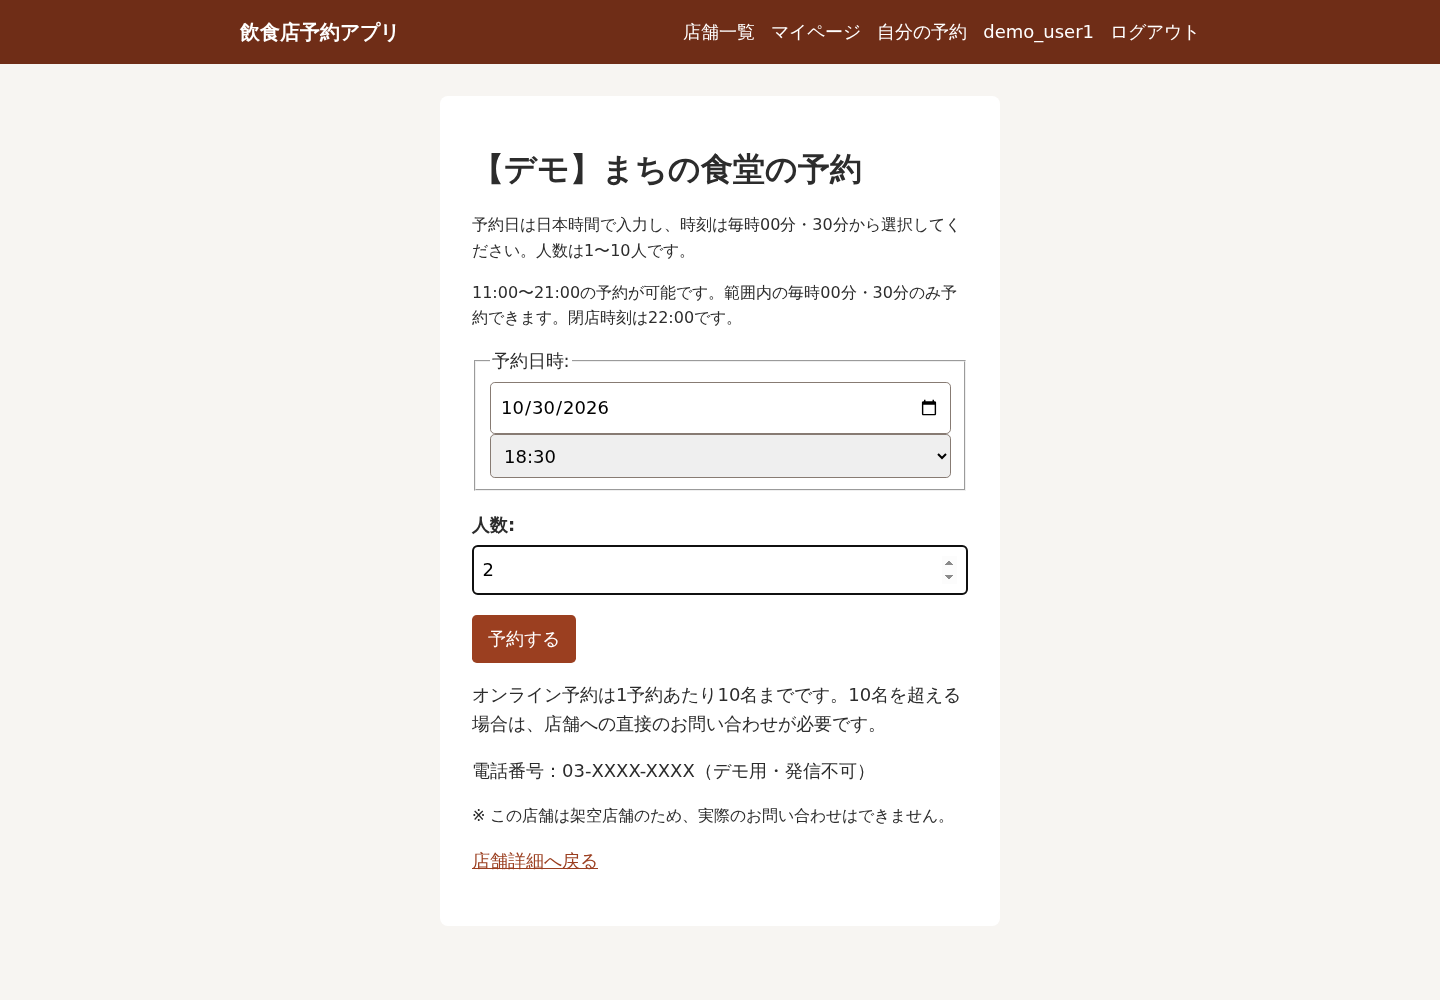
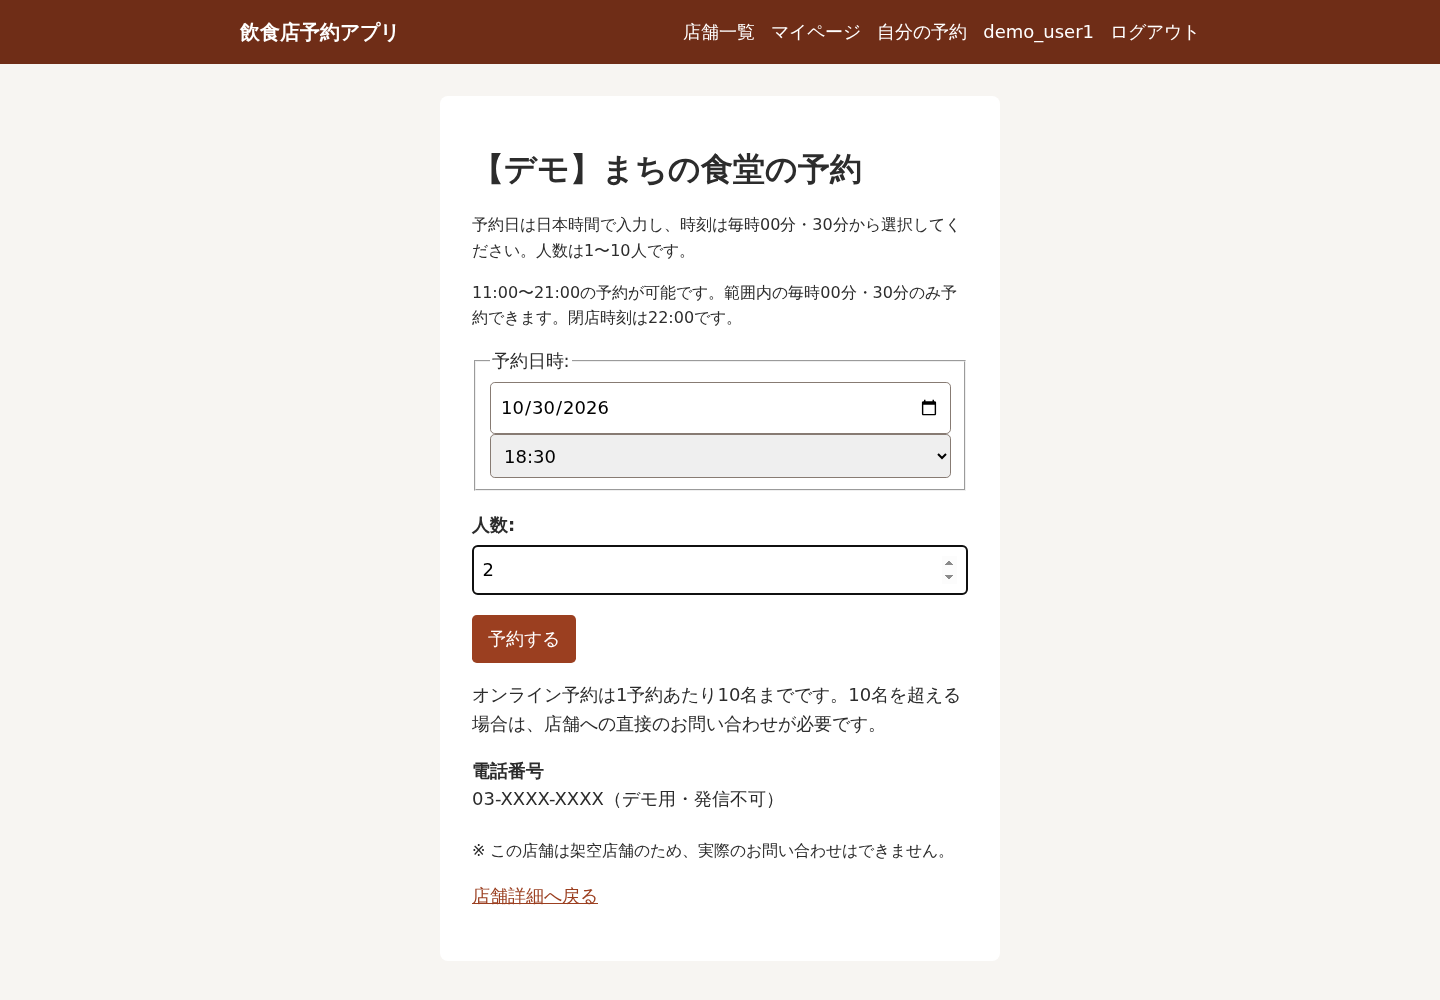
Refine restaurant phone number layout

Changed region(s): [[0.3125, 0.744, 0.6562, 0.93]]

diff --git a/templates/reservations/_restaurant_phone.html b/templates/reservations/_restaurant_phone.html
@@ -1,13 +1,14 @@
-{% if compact %}<dt>電話番号</dt><dd>{% else %}<p>{% endif %}
+<dt>電話番号</dt>
+<dd>
 {% with phone=restaurant.phone_number_tel %}
   {% if phone %}
-    {% if not compact %}店舗へ電話でお問い合わせください。電話：{% endif %}<a href="tel:{{ phone }}">{{ restaurant.phone_number }}</a>
+    <a href="tel:{{ phone }}">{{ restaurant.phone_number }}</a>
   {% elif restaurant.phone_number %}
     このページの店舗の電話番号は不正なため、電話リンクを表示できません。
   {% elif is_demo_restaurant %}
-    {% if not compact %}電話番号：{% endif %}03-XXXX-XXXX（デモ用・発信不可）
+    03-XXXX-XXXX（デモ用・発信不可）
   {% else %}
     このページには店舗の電話番号が登録されていません。
   {% endif %}
 {% endwith %}
-{% if compact %}</dd>{% else %}</p>{% endif %}
+</dd>

diff --git a/templates/reservations/_reservation_contact.html b/templates/reservations/_reservation_contact.html
@@ -2,7 +2,11 @@
   {% if restaurant.max_party_size >= 1 %}
     <p>オンライン予約は1予約あたり{{ restaurant.max_party_size }}名までです。{{ restaurant.max_party_size }}名を超える場合は、店舗への直接のお問い合わせが必要です。</p>
   {% endif %}
-  {% include "reservations/_restaurant_phone.html" %}
+  {% if not hide_phone %}
+    <dl>
+      {% include "reservations/_restaurant_phone.html" %}
+    </dl>
+  {% endif %}
   {% if is_demo_restaurant and not restaurant.phone_number %}
     <p class="supplementary">※ この店舗は架空店舗のため、実際のお問い合わせはできません。</p>
   {% else %}

diff --git a/templates/reservations/restaurant_list.html b/templates/reservations/restaurant_list.html
@@ -22,7 +22,7 @@
           <dd>1予約あたり{{ restaurant.max_party_size }}人まで</dd>
           <dt>営業時間の補足案内</dt>
           <dd>{{ restaurant.business_hours|linebreaksbr }}</dd>
-          {% include "reservations/_restaurant_phone.html" with is_demo_restaurant=restaurant.is_demo compact=True %}
+          {% include "reservations/_restaurant_phone.html" with is_demo_restaurant=restaurant.is_demo %}
         </dl>
         {% if not restaurant.can_accept_reservations %}
           <p>店舗の予約設定が未完了または不正のため、現在予約を受け付けていません。</p>

diff --git a/templates/reservations/restaurant_detail.html b/templates/reservations/restaurant_detail.html
@@ -25,11 +25,12 @@
       <dd>1予約あたり{{ restaurant.max_party_size }}人まで</dd>
       <dt>営業時間の補足案内</dt>
       <dd>{{ restaurant.business_hours|linebreaksbr }}</dd>
+      {% include "reservations/_restaurant_phone.html" %}
     </dl>
   </section>
 </article>
 
-{% include "reservations/_reservation_contact.html" %}
+{% include "reservations/_reservation_contact.html" with hide_phone=True %}
 
 {% if restaurant.can_accept_reservations %}
 <p>

diff --git a/reservations/tests.py b/reservations/tests.py
@@ -810,6 +810,31 @@ class ReservationTests(TestCase):
                                 self.assertContains(response, "電話番号が登録されていません")
                 self.assertEqual(Restaurant.objects.filter(pk=self.restaurant.pk).values().get(), before)
 
+    def test_phone_label_and_detail_placement_without_duplicate_contact(self):
+        self.restaurant.name = "【デモ】まちの食堂"
+        self.restaurant.description = "[seed_demo:v1]\n説明"
+        for number, value in (
+            ("", "03-XXXX-XXXX（デモ用・発信不可）"),
+            ("03-1234-5678", '<a href="tel:0312345678">03-1234-5678</a>'),
+            ("invalid", "このページの店舗の電話番号は不正なため、電話リンクを表示できません。"),
+        ):
+            self.restaurant.phone_number = number
+            self.restaurant.save()
+            detail = self.client.get(reverse("reservations:restaurant_detail", args=[self.restaurant.pk]))
+            content = detail.content.decode()
+            inside, outside = content.split("</article>", 1)
+            self.assertIn("<dt>電話番号</dt>", inside)
+            self.assertNotIn("<dt>電話番号</dt>", outside)
+            self.assertNotIn(value, outside)
+            self.assertLess(inside.index("営業時間の補足案内"), inside.index("<dt>電話番号</dt>"))
+            self.assertIn("名を超える場合は", outside)
+            for response in (detail, self.client.get(self.create_url),
+                             self.client.post(self.create_url, self.data(party_size="11"))):
+                self.assertContains(response, f"<dt>電話番号</dt><dd>{value}</dd>", count=1, html=True)
+                if not number:
+                    self.assertContains(response, "※ この店舗は架空店舗のため、実際のお問い合わせはできません。", count=1)
+            self.assertFalse(Reservation.objects.exists())
+
     def test_demo_contact_requires_both_name_and_exact_leading_marker(self):
         for name, description in (
             ("【デモ】まちの食堂", "普通の説明"),

diff --git a/README.md b/README.md
@@ -40,7 +40,7 @@ Djangoの認証・ORM・フォーム・テンプレート・管理画面と、DR
 
 ### 店舗詳細
 
-最大予約人数10人と、上限超過時の直接問い合わせ案内です。デモ番号に電話リンクはなく、問い合わせ不可の注意書きを表示します。
+白枠内に電話番号、枠外に上限10人を超える場合の直接問い合わせ案内を表示します。デモ番号に電話リンクはなく、問い合わせ不可の注意書きを表示します。
 
 ![店舗詳細](docs/images/restaurant_detail.png)
 
@@ -267,7 +267,7 @@ APIのみ実行する場合は`docker compose exec web python manage.py test res
 
 ### 動作確認結果
 
-2026-10-28、Docker/MySQLの独立テストDBで全124件の自動テストが成功しました。
+2026-10-28、Docker/MySQLの独立テストDBで全125件の自動テストが成功しました。
 `check`・`check --database default`は問題なし、`makemigrations --check --dry-run`は差分なし、`git diff --check`も指摘なしでした。
 開発DBに接続しない撮影用コンテナと専用SQLite DBで、上記5画面を再撮影しました。1440px・375px・320pxで重大なレイアウト崩れ・横方向のはみ出しがないことと、人数超過POSTで予約が増えないことを確認しています。
 実際の電話発信、管理画面のレスポンシブ表示、全画面の網羅的な表示確認は実施していません。
